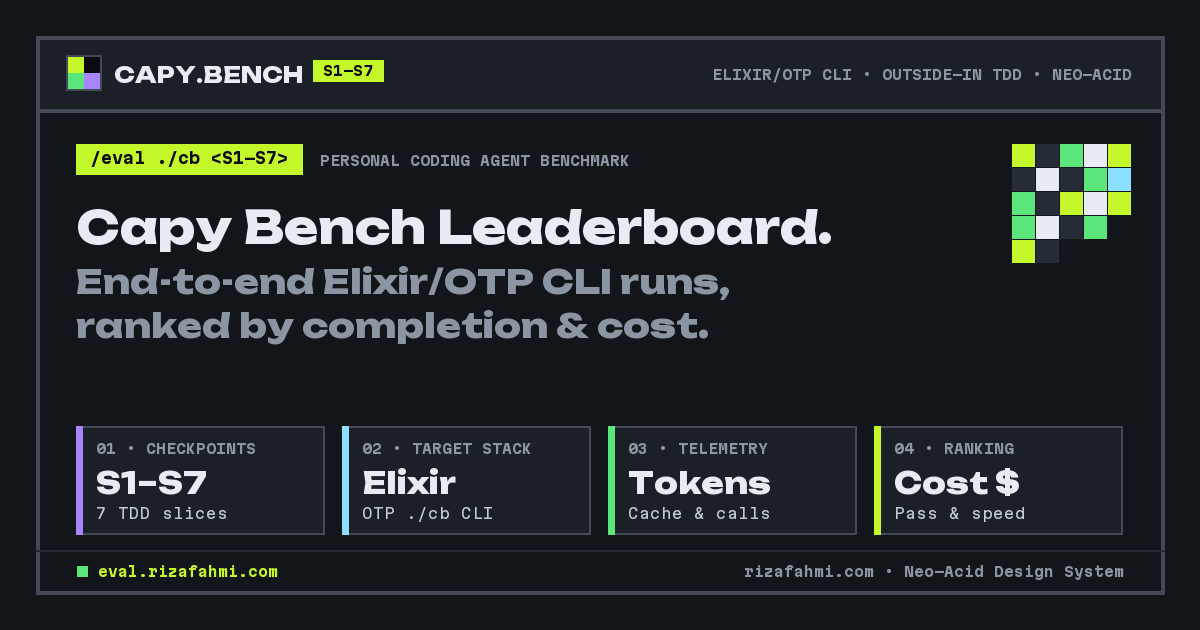
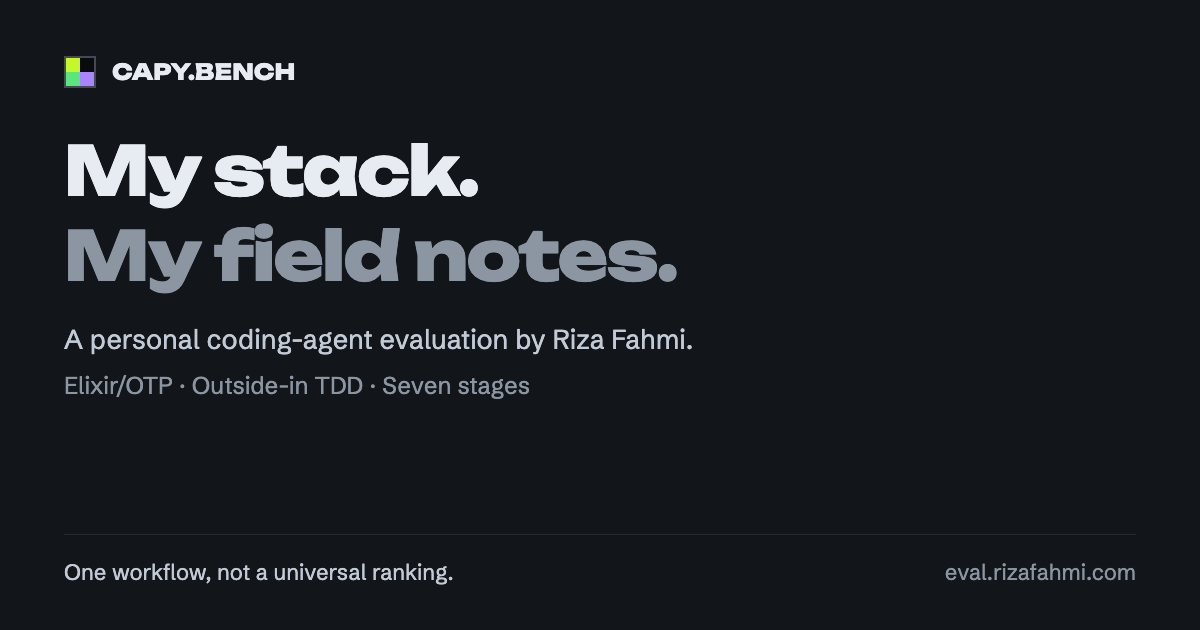
feat(meta): align social previews with personal field-note scope
Start with the words a shared link carries before anyone opens the page. Update default, leaderboard, comparison, run-report, and web-manifest titles and descriptions so every preview names Riza Fahmi's personal Elixir/OTP evaluation and notes that other stacks may differ.

Then replace the old four-card dashboard Open Graph card with a quiet 1200x630 field-note image ('My stack. My field notes. / One workflow, not a universal ranking.'), keep its reproducible source in scripts/og-image.html, and version og:image so social crawlers refresh cached previews.

Document the social image source in README.md. Verified across all 14 generated HTML pages and the 1200x630 PNG output.

Changed region(s): [[0.0308, 0.0302, 0.9867, 0.9651], [0.0308, 0.2111, 0.7092, 0.6333]]

diff --git a/scripts/og-image.html b/scripts/og-image.html
@@ -1,0 +1,116 @@
+<!doctype html>
+<html lang="en">
+  <head>
+    <meta charset="utf-8" />
+    <meta name="viewport" content="width=device-width, initial-scale=1" />
+    <meta name="robots" content="noindex" />
+    <title>Capy Bench social image source</title>
+    <link rel="stylesheet" href="../src/styles/tokens.css" />
+    <style>
+      @font-face {
+        font-family: "Unbounded";
+        src: url("../node_modules/@fontsource/unbounded/files/unbounded-latin-800-normal.woff2") format("woff2");
+        font-style: normal;
+        font-weight: 800;
+        font-display: block;
+      }
+
+      @font-face {
+        font-family: "Schibsted Grotesk";
+        src: url("../node_modules/@fontsource/schibsted-grotesk/files/schibsted-grotesk-latin-400-normal.woff2") format("woff2");
+        font-style: normal;
+        font-weight: 400;
+        font-display: block;
+      }
+
+      body {
+        inline-size: 1200px;
+        block-size: 630px;
+        overflow: hidden;
+      }
+
+      main {
+        display: flex;
+        flex-direction: column;
+        block-size: 100%;
+        padding: 56px 64px 40px;
+      }
+
+      .share-brand {
+        display: flex;
+        align-items: center;
+        gap: 16px;
+        font-family: var(--font-display);
+        font-size: 22px;
+        line-height: 1.4;
+      }
+
+      .share-mark {
+        display: grid;
+        grid-template-columns: repeat(2, 14px);
+        grid-template-rows: repeat(2, 14px);
+        border: 2px solid var(--border-strong-color);
+      }
+
+      .share-mark span:nth-child(1) { background: var(--hl-acid); }
+      .share-mark span:nth-child(2) { background: var(--raw-ebony); }
+      .share-mark span:nth-child(3) { background: var(--hl-mint); }
+      .share-mark span:nth-child(4) { background: var(--hl-violet); }
+
+      .share-headline {
+        margin-block: 40px 20px;
+        font-size: 68px;
+        line-height: 1.25;
+        letter-spacing: -0.025em;
+      }
+
+      .share-copy {
+        margin: 0;
+        font-size: 27px;
+        line-height: 1.65;
+        color: var(--text-secondary);
+      }
+
+      .share-context {
+        margin-block: 4px 0;
+        font-size: 24px;
+        color: var(--text-muted);
+      }
+
+      .share-footer {
+        display: flex;
+        justify-content: space-between;
+        align-items: baseline;
+        gap: 24px;
+        margin-block-start: auto;
+        padding-block-start: 20px;
+        border-block-start: var(--border-row);
+        font-size: 22px;
+        color: var(--text-secondary);
+      }
+
+      .share-footer p {
+        margin: 0;
+      }
+
+      .share-footer-address {
+        color: var(--text-muted);
+      }
+    </style>
+  </head>
+  <body>
+    <main>
+      <header class="share-brand">
+        <span class="share-mark" aria-hidden="true"><span></span><span></span><span></span><span></span></span>
+        <span>CAPY.BENCH</span>
+      </header>
+      <h1 class="headline-two-tone share-headline">My stack.<br /><span class="muted">My field notes.</span></h1>
+      <p class="share-copy">A personal coding-agent evaluation by Riza Fahmi.</p>
+      <p class="share-context">Elixir/OTP · Outside-in TDD · Seven stages</p>
+      <footer class="share-footer">
+        <p>One workflow, not a universal ranking.</p>
+        <p class="share-footer-address">eval.rizafahmi.com</p>
+      </footer>
+    </main>
+  </body>
+</html>

diff --git a/README.md b/README.md
@@ -285,6 +285,9 @@ pnpm build
 ├── .github/workflows/
 │   └── ci.yml                 # GitHub Actions workflow: schema check, build & GitHub Pages deploy
 ├── public/                    # Static assets (favicons, Apple touch icon, OG social image, webmanifest)
+├── scripts/
+│   ├── ingest-run.ts          # Raw transcript ingestion & telemetry normalization CLI
+│   └── og-image.html          # 1200×630 source for public/og-image.png
 ├── src/
 │   ├── content/
 │   │   └── runs/*.json        # Individual benchmark run entries (10 published, 2 unpublished)
